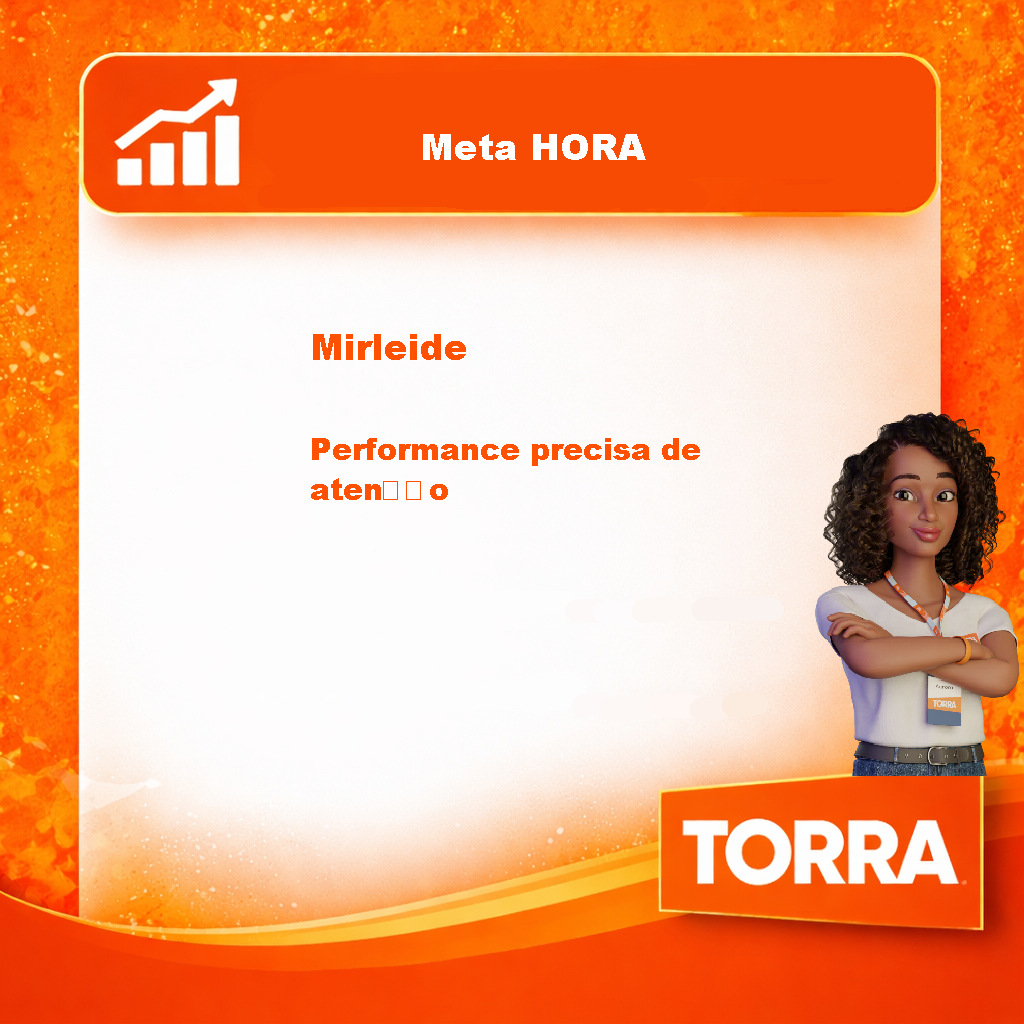
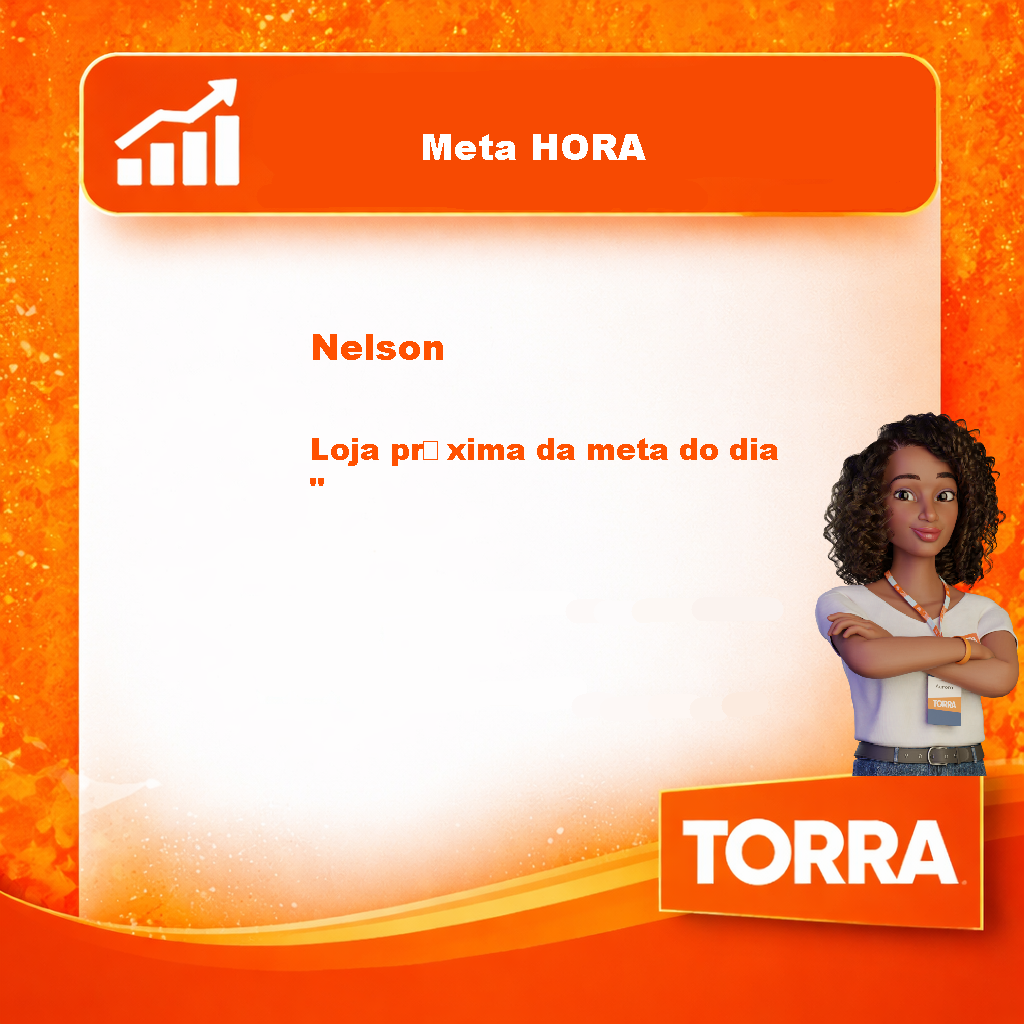
feat: melhorando logs

Changed region(s): [[0.2812, 0.4062, 0.75, 0.5], [0.3125, 0.3125, 0.4688, 0.375]]

diff --git a/src/main/java/com/torra/whatsapp/service/NotificationProcessorService.java b/src/main/java/com/torra/whatsapp/service/NotificationProcessorService.java
@@ -1,12 +1,14 @@
 package com.torra.whatsapp.service;
 
 import com.torra.whatsapp.config.ZApiConfig;
+import com.torra.whatsapp.model.ProcessingResult;
 import com.torra.whatsapp.model.StoreNotificationData;
 import com.torra.whatsapp.util.ImageBase64Util;
 import com.torra.whatsapp.util.LogUtil;
 
 import static com.torra.whatsapp.config.AppConfig.*;
 import java.awt.image.BufferedImage;
+import java.util.ArrayList;
 import java.util.List;
 
 public class NotificationProcessorService {
@@ -14,7 +16,6 @@ public class NotificationProcessorService {
     private final CsvReaderService csvReaderService;
     private final ImageGeneratorService imageGeneratorService;
     private final WhatsAppSenderService whatsAppSenderService;
-
 
     public NotificationProcessorService() {
         this.csvReaderService = new CsvReaderService();
@@ -25,41 +26,75 @@ public class NotificationProcessorService {
     public void process() throws Exception {
 
         List<StoreNotificationData> list = csvReaderService.read();
+        List<ProcessingResult> results = new ArrayList<>();
+
+        int total = list.size();
+        int index = 1;
 
         for (StoreNotificationData item : list) {
 
-LogUtil.info("Processando coordenador: " + item.getCoordinatorName()
-        + " | loja: " + item.getStoreName()
-        + " | telefone: " + item.getPhone());
+            long startTime = System.currentTimeMillis();
 
-        
-            BufferedImage image = imageGeneratorService.generateImage(
-                    TEMPLATE_PATH,
-                    OUTPUT_PATH,
-                    TITLE,
-                    item.getCoordinatorName(),
-                    item.getMessage()
-            );
+            try {
+                LogUtil.info("[" + index + "/" + total + "] Iniciando processamento | loja="
+                        + item.getStoreName() + " | telefone=" + item.getPhone());
 
-            String imageBase64 = ImageBase64Util.toBase64Png(image);
+                BufferedImage image = imageGeneratorService.generateImage(
+                        TEMPLATE_PATH,
+                        OUTPUT_PATH,
+                        TITLE,
+                        item.getCoordinatorName(),
+                        item.getMessage());
 
-            ZApiConfig config = new ZApiConfig(
-                    PRODUCT_ID,
-                    PHONE_ID,
-                    TOKEN,
-                    item.getPhone()
-            );
+                String imageBase64 = ImageBase64Util.toBase64Png(image);
 
-            String response = whatsAppSenderService.sendImage(
-                    config,
-                    imageBase64,
-                    "Meta da loja " + item.getStoreName()
-            );
+                ZApiConfig config = new ZApiConfig(
+                        PRODUCT_ID,
+                        PHONE_ID,
+                        TOKEN,
+                        item.getPhone());
 
-        LogUtil.info("Mensagem adicionada para envio no telefone: " + item.getPhone());
-LogUtil.info("Resposta da API: " + response);
+                String response = whatsAppSenderService.sendImage(
+                        config,
+                        imageBase64,
+                        "Meta da loja " + item.getStoreName());
+
+                long endTime = System.currentTimeMillis();
+
+                results.add(new ProcessingResult(
+                        item.getStoreName(),
+                        item.getPhone(),
+                        true,
+                        response,
+                        (endTime - startTime)));
+
+                LogUtil.info("[" + index + "/" + total + "] Sucesso | tempo="
+                        + (endTime - startTime) + "ms");
+
+            } catch (Exception e) {
+
+                long endTime = System.currentTimeMillis();
+
+                results.add(new ProcessingResult(
+                        item.getStoreName(),
+                        item.getPhone(),
+                        false,
+                        e.getMessage(),
+                        (endTime - startTime)));
+
+                LogUtil.error("[" + index + "/" + total + "] Erro no processamento", e);
+            }
 
             Thread.sleep(2000);
+            index++;
         }
+
+        long successCount = results.stream().filter(ProcessingResult::isSuccess).count();
+        long errorCount = results.size() - successCount;
+
+        LogUtil.info("===== RESUMO DO LOTE =====");
+        LogUtil.info("Total: " + results.size());
+        LogUtil.info("Sucesso: " + successCount);
+        LogUtil.info("Erro: " + errorCount);
     }
 }

diff --git a/src/main/java/com/torra/whatsapp/model/ProcessingResult.java b/src/main/java/com/torra/whatsapp/model/ProcessingResult.java
@@ -1,0 +1,44 @@
+package com.torra.whatsapp.model;
+
+public class ProcessingResult {
+
+    private final String storeName;
+    private final String phone;
+    private final boolean success;
+    private final String message;
+    private final long executionTimeMs;
+
+    public ProcessingResult(
+            String storeName,
+            String phone,
+            boolean success,
+            String message,
+            long executionTimeMs
+    ) {
+        this.storeName = storeName;
+        this.phone = phone;
+        this.success = success;
+        this.message = message;
+        this.executionTimeMs = executionTimeMs;
+    }
+
+    public String getStoreName() {
+        return storeName;
+    }
+
+    public String getPhone() {
+        return phone;
+    }
+
+    public boolean isSuccess() {
+        return success;
+    }
+
+    public String getMessage() {
+        return message;
+    }
+
+    public long getExecutionTimeMs() {
+        return executionTimeMs;
+    }
+}